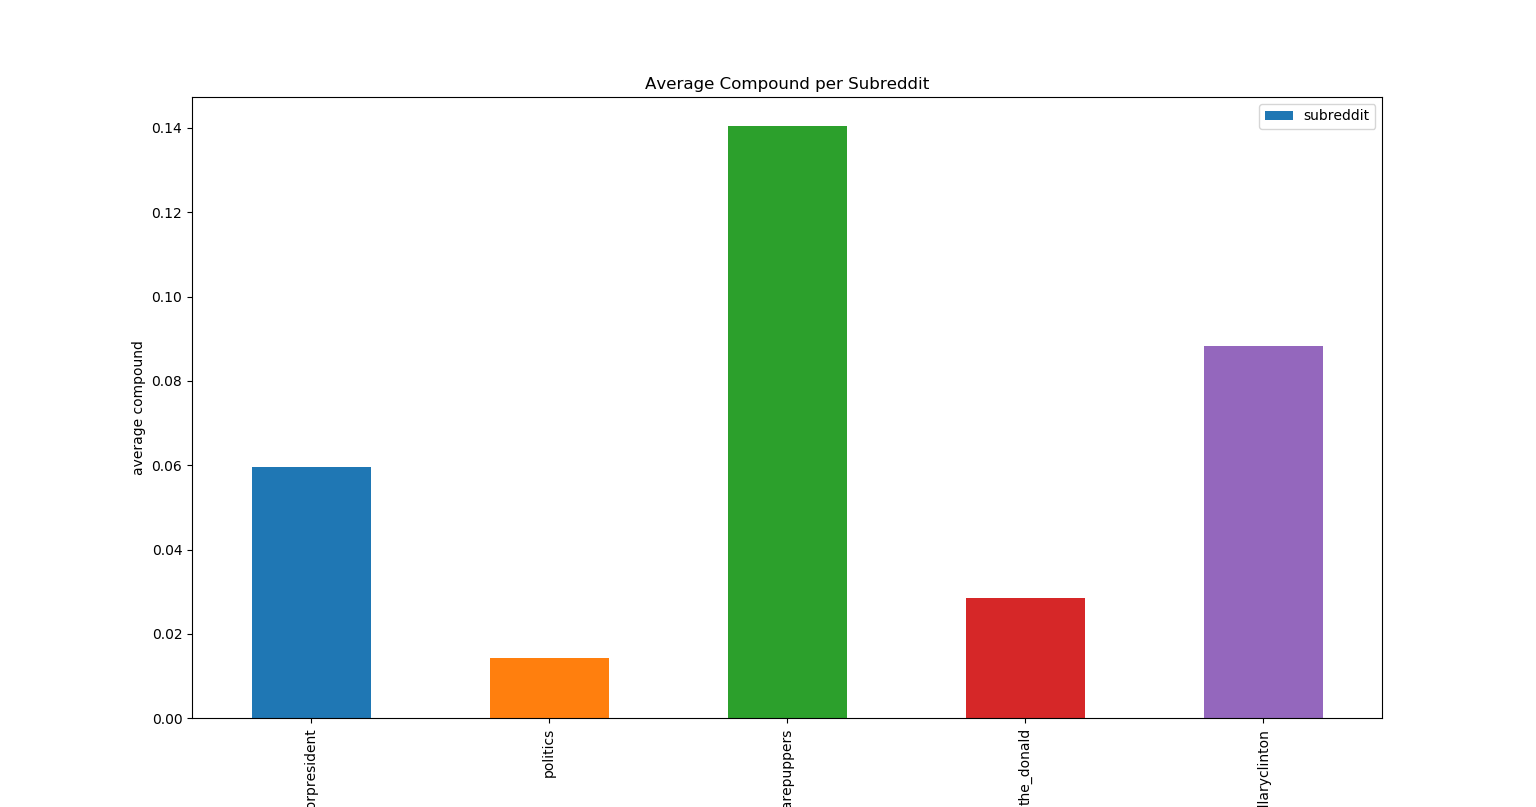
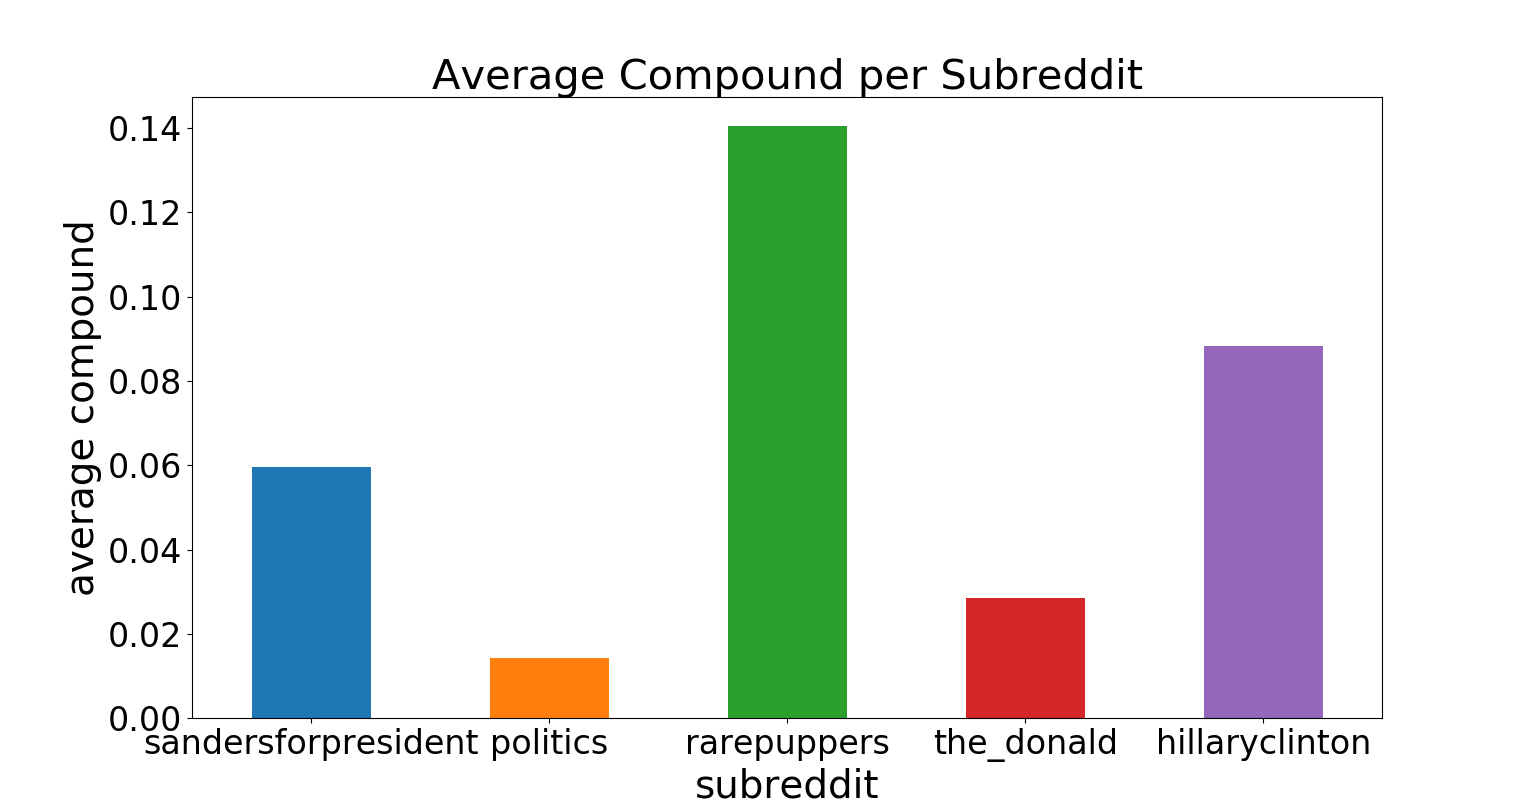
some comestics for graphs changed

diff --git a/src/graph_maker.py b/src/graph_maker.py
@@ -18,31 +18,72 @@ def main():
     average_compound = pd.read_csv('../dump/RC_2016-11-compound.csv')
 
     polarity_plot = average_polarity.plot(
-        kind='bar', title='Average Polarity per Subreddit', x='subreddit', y='average')
+        kind='bar',
+        x='subreddit',
+        y='average',
+        legend=False)
 
-    polarity_plot.set_xlabel('subreddit')
+    polarity_plot.set_title('Average Polarity per Subreddit', fontsize=30)
 
-    polarity_plot.set_ylabel('average polarity')
+    polarity_plot.set_xlabel('subreddit', fontsize=28)
+
+    polarity_plot.set_ylabel('average polarity', fontsize=28)
 
     polarity_plot.legend(['subreddit'])
 
+    polarity_plot.set_xticklabels(polarity_plot.get_xticklabels(), rotation=0)
+
+    polarity_plot.get_legend().remove()
+
+    plt.xticks(size=24)
+
+    plt.yticks(size=24)
+
     subjectivity_plot = average_subjectivity.plot(
-        kind='bar', title='Average Subjectivity per Subreddit', x='subreddit', y='average')
+        kind='bar',
+        x='subreddit',
+        y='average',
+        legend=False)
 
-    subjectivity_plot.set_xlabel('subreddit')
+    subjectivity_plot.set_title(
+        'Average Subjectivity per Subreddit', fontsize=30)
 
-    subjectivity_plot.set_ylabel('average subjectivity')
+    subjectivity_plot.set_xlabel('subreddit', fontsize=28)
+
+    subjectivity_plot.set_ylabel('average subjectivity', fontsize=28)
 
     subjectivity_plot.legend(['subreddit'])
 
+    subjectivity_plot.set_xticklabels(
+        subjectivity_plot.get_xticklabels(), rotation=0)
+
+    subjectivity_plot.get_legend().remove()
+
+    plt.xticks(size=24)
+
+    plt.yticks(size=24)
+
     compound_plot = average_compound.plot(
-        kind='bar', title='Average Compound per Subreddit', x='subreddit', y='average')
+        kind='bar',
+        x='subreddit',
+        y='average',
+        legend=False)
 
-    compound_plot.set_xlabel('subreddit')
+    compound_plot.set_title('Average Compound per Subreddit', fontsize=30)
 
-    compound_plot.set_ylabel('average compound')
+    compound_plot.set_xlabel('subreddit', fontsize=28)
+
+    compound_plot.set_ylabel('average compound', fontsize=28)
 
     compound_plot.legend(['subreddit'])
+
+    compound_plot.set_xticklabels(compound_plot.get_xticklabels(), rotation=0)
+
+    compound_plot.get_legend().remove()
+
+    plt.xticks(size=24)
+
+    plt.yticks(size=24)
 
     plt.show()
 
